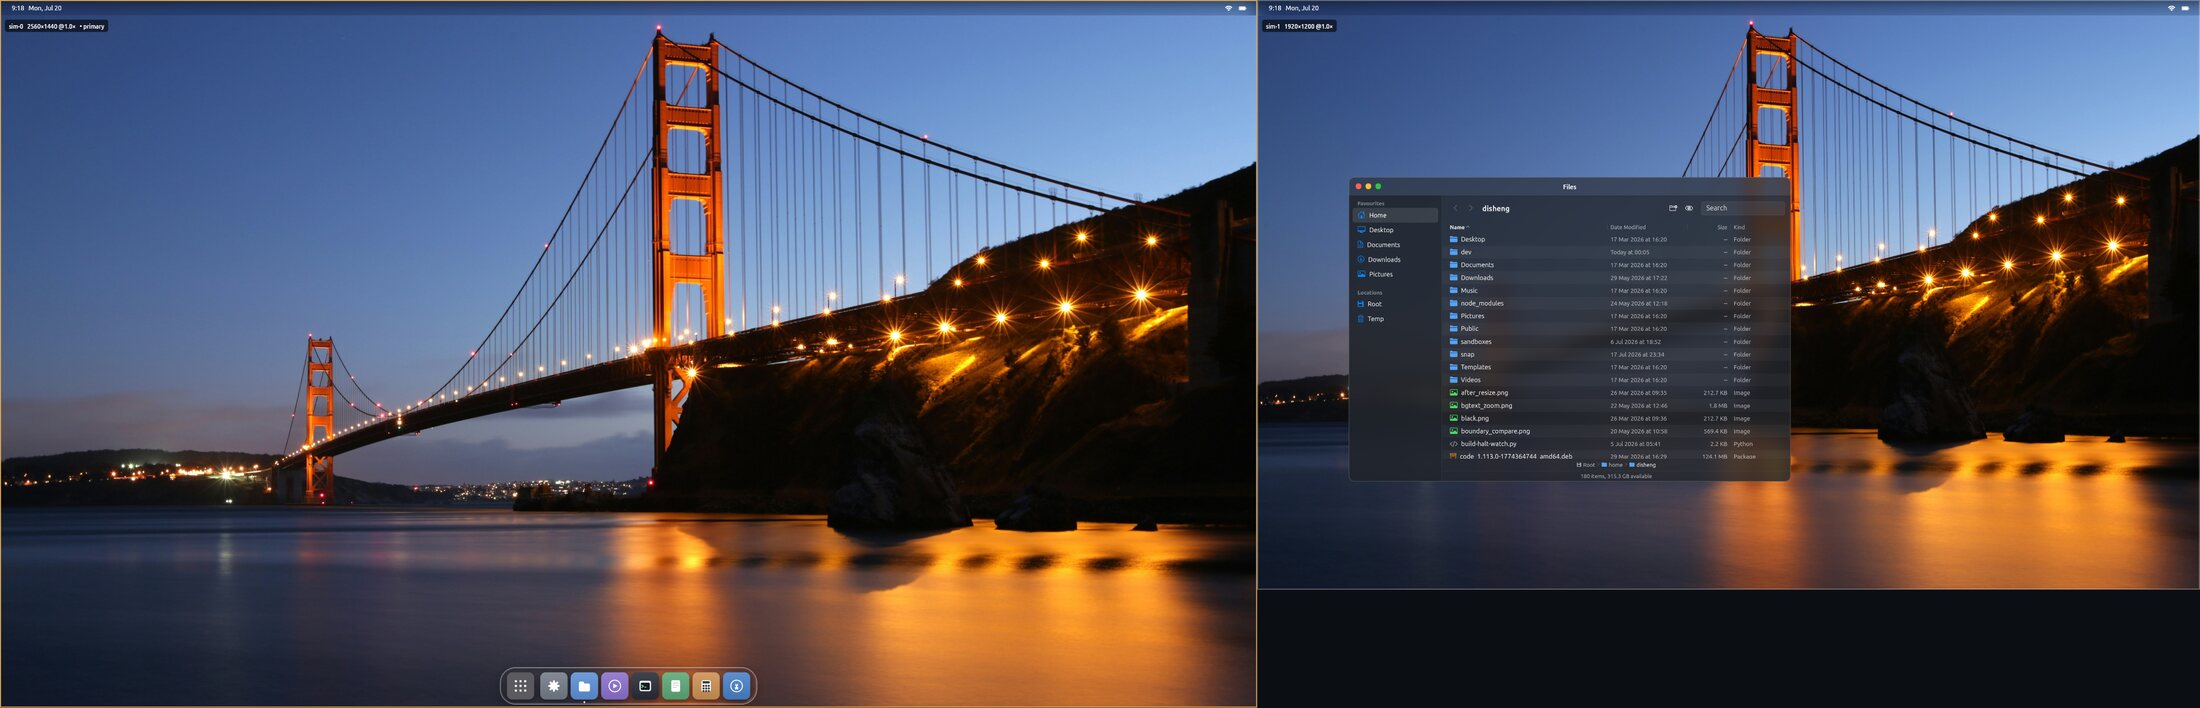
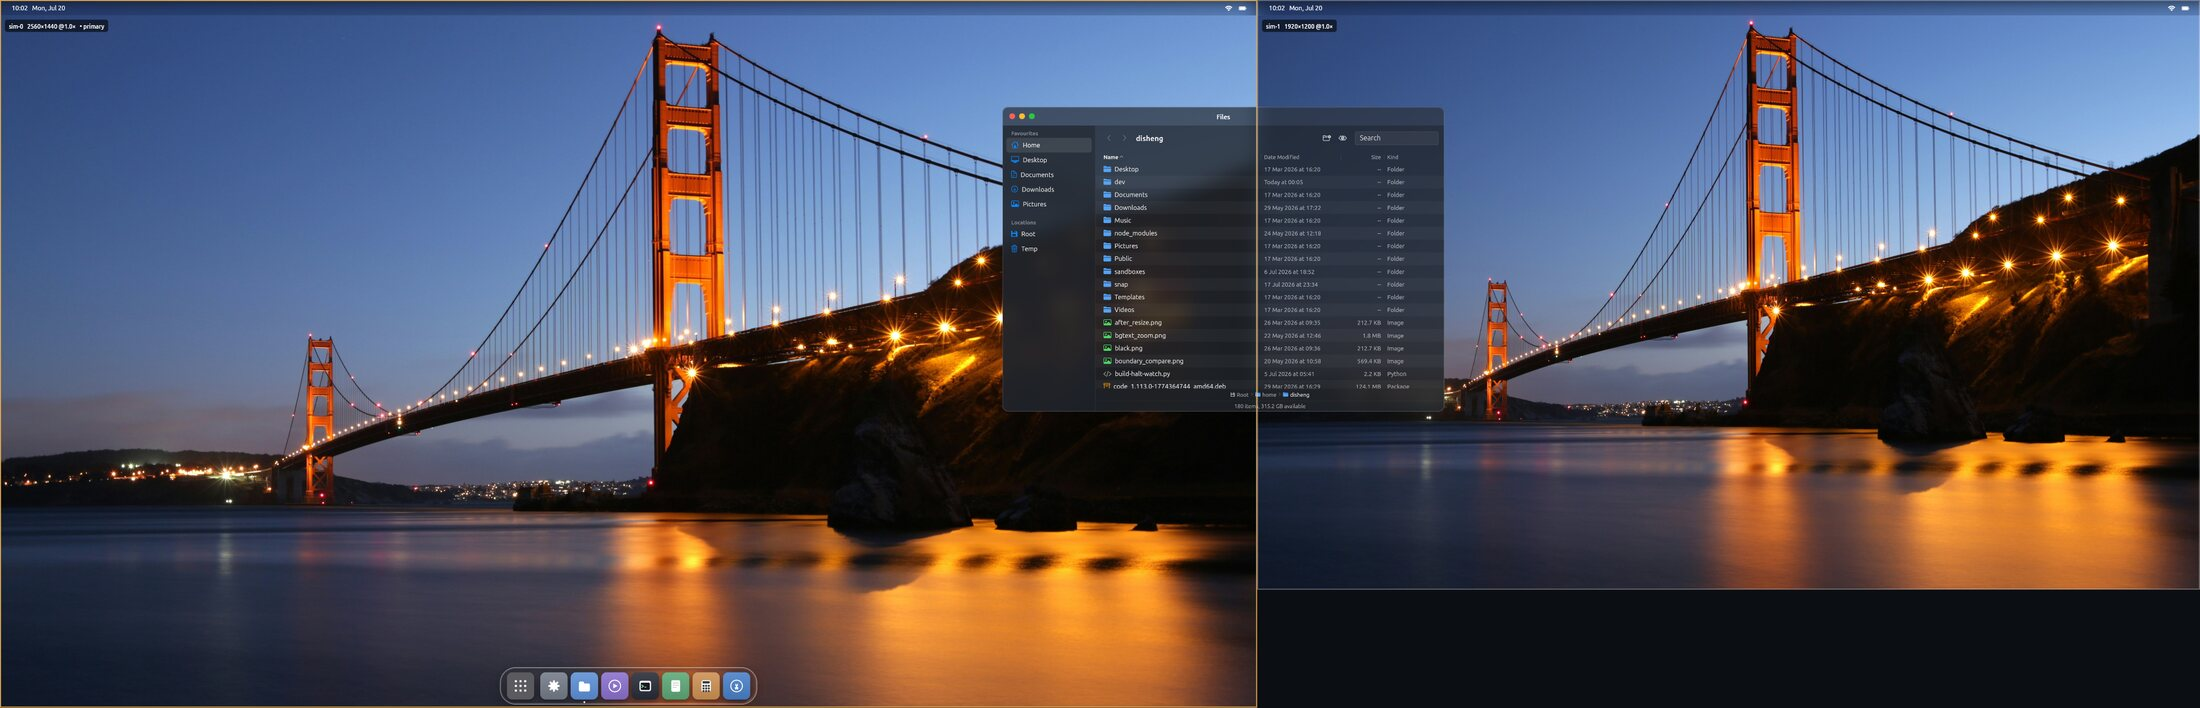
site: publish from starling-desktop/ui @ bd2a517

Changed region(s): [[0.4327, 0.1243, 0.8345, 0.6836], [0.0, 0.0, 0.0309, 0.0311]]

diff --git a/index.html b/index.html
@@ -421,8 +421,9 @@
           <h3>Monitors that behave</h3>
           <p>
             Every display gets its own menu bar, its own wallpaper and its own
-            spaces. Drag a window across the seam and it settles onto the new
-            screen at that screen's scale.
+            spaces — but they are one desktop, not two. Park a window across the
+            boundary and it just works: half drawn on one screen, half on the
+            other, at each screen's own scale.
           </p>
           <p>
             Unplug a monitor and its windows come home instead of vanishing off
@@ -433,8 +434,8 @@
         </div>
         <figure>
           <img src="img/multimonitor.jpg" width="2200" height="708" loading="lazy"
-               alt="Two monitors side by side on Starling, each with its own menu bar and wallpaper. The Files window has been dragged onto the second display.">
-          <figcaption>Two displays, one desktop — Files dragged onto the second screen.</figcaption>
+               alt="Two monitors side by side on Starling, each with its own menu bar and wallpaper. A Files window sits across the boundary, its left half drawn on one screen and its right half on the other.">
+          <figcaption>Two displays, one desktop — a window sitting across the boundary, half on each screen.</figcaption>
         </figure>
       </div>
 